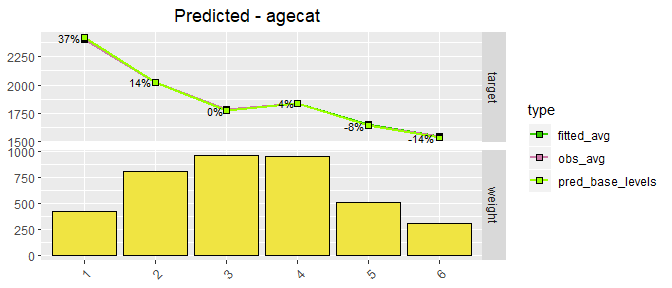
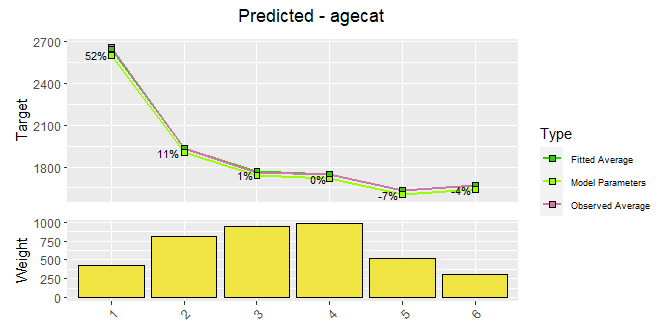
replace plot facetting with patchwork layout

diff --git a/vignettes/insuRglm.md b/vignettes/insuRglm.md
@@ -463,23 +463,25 @@ each predictor, we can do so by using setting `triangles = TRUE`.
 modeling %>% 
   model_betas(triangles = TRUE)
 #> $pol_yr
-#> # A tibble: 4 x 5
-#>   pol_yr `2000` `2001` `2002` `2004`
-#>   <chr>  <chr>  <chr>  <chr>  <chr> 
-#> 1 2000   ""     ""     ""     ""    
-#> 2 2001   647%   ""     ""     ""    
-#> 3 2002   89%    78%    ""     ""    
-#> 4 2004   485%   278%   109%   ""    
+#> # A tibble: 5 x 6
+#>   pol_yr `2003` `2000` `2001` `2002` `2004`
+#>   <chr>  <chr>  <chr>  <chr>  <chr>  <chr> 
+#> 1 2003   ""     ""     ""     ""     ""    
+#> 2 2000   189%   ""     ""     ""     ""    
+#> 3 2001   146%   647%   ""     ""     ""    
+#> 4 2002   165%   89%    78%    ""     ""    
+#> 5 2004   313%   485%   278%   109%   ""    
 #> 
 #> $agecat
-#> # A tibble: 5 x 6
-#>   agecat `1`   `2`   `3`   `5`   `6`  
-#>   <chr>  <chr> <chr> <chr> <chr> <chr>
-#> 1 1      ""    ""    ""    ""    ""   
-#> 2 2      33%   ""    ""    ""    ""   
-#> 3 3      25%   93%   ""    ""    ""   
-#> 4 5      24%   57%   115%  ""    ""   
-#> 5 6      28%   78%   190%  567%  ""
+#> # A tibble: 6 x 7
+#>   agecat `4`   `1`   `2`   `3`   `5`   `6`  
+#>   <chr>  <chr> <chr> <chr> <chr> <chr> <chr>
+#> 1 4      ""    ""    ""    ""    ""    ""   
+#> 2 1      24%   ""    ""    ""    ""    ""   
+#> 3 2      79%   33%   ""    ""    ""    ""   
+#> 4 3      541%  25%   93%   ""    ""    ""   
+#> 5 5      139%  24%   57%   115%  ""    ""   
+#> 6 6      249%  28%   78%   190%  567%  ""
 ```
 
 ## Lift charts
@@ -506,7 +508,7 @@ modeling %>%
   model_lift(model = 'current') # can be also 'all'
 ```
 
-![](../man/figures/insuRglm_vignette-unnamed-chunk-28-1.png)<!-- -->
+![](../man/figures/insuRglm_vignette-unnamed-chunk-28-1.png)<!-- -->![](../man/figures/insuRglm_vignette-unnamed-chunk-28-2.png)<!-- -->
 
 ``` r
 
@@ -514,7 +516,7 @@ modeling %>%
   model_lift(model = 'current', buckets = 5) 
 ```
 
-![](../man/figures/insuRglm_vignette-unnamed-chunk-28-2.png)<!-- -->
+![](../man/figures/insuRglm_vignette-unnamed-chunk-28-3.png)<!-- -->
 
 ## Crossvalidation
 

diff --git a/README.md b/README.md
@@ -68,7 +68,7 @@ library(insuRglm)
 library(magrittr) # for the %>%
 
 setup <- setup(
-  data_train = train,
+  data_train = sev_train,
   target = 'sev',
   weight = 'numclaims',
   family = 'gamma',
@@ -78,8 +78,8 @@ setup <- setup(
 #> [1] ""
 #> [1] "Train Data:"
 #> [1] "Number of Observations: 3699"
-#> [1] "Weighted Average Target: 1873.08"
-#> [1] "Max. Target: 47296.61"
+#> [1] "Weighted Average Target: 1865.06"
+#> [1] "Max. Target: 46868.18"
 #> [1] "Min. Target: 200"
 #> [1] ""
 ```
@@ -102,22 +102,22 @@ setup %>%
 #> # A tibble: 5 x 4
 #>   pol_yr weight_sum target_sum target_avg
 #>   <fct>       <int>      <dbl>      <dbl>
-#> 1 2000          809   1481902.      1922.
-#> 2 2001          775   1236633.      1699.
-#> 3 2002          814   1467416.      1886.
-#> 4 2003          765   1340400.      1866.
-#> 5 2004          807   1502716.      1985.
+#> 1 2000          791   1451350.      1925.
+#> 2 2001          785   1493467.      1971.
+#> 3 2002          785   1266940.      1728.
+#> 4 2003          821   1421615.      1831.
+#> 5 2004          779   1392400.      1871.
 #> 
 #> $agecat
 #> # A tibble: 6 x 4
 #>   agecat weight_sum target_sum target_avg
 #>   <fct>       <int>      <dbl>      <dbl>
-#> 1 1             424    962220.      2408.
-#> 2 2             810   1546308.      2023.
-#> 3 3             963   1621376.      1778.
-#> 4 4             956   1654774.      1837.
-#> 5 5             507    797327.      1638.
-#> 6 6             310    447061.      1540.
+#> 1 1             423   1078124.      2661.
+#> 2 2             804   1474176.      1934.
+#> 3 3             944   1574173.      1763.
+#> 4 4             975   1613592.      1747.
+#> 5 5             512    804438.      1631.
+#> 6 6             303    481270.      1667.
 ```
 
 Add or remove predictors to model formula with `factor_add` and
